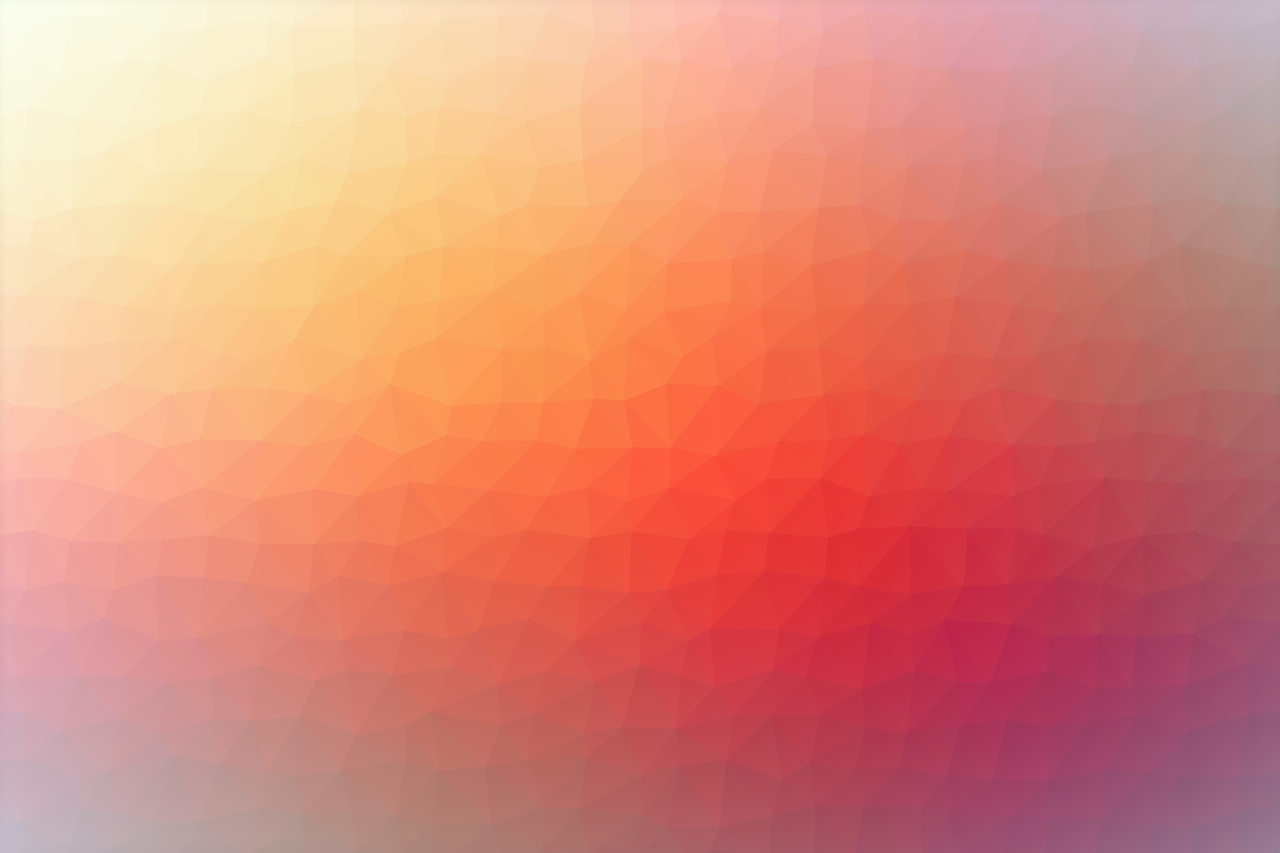
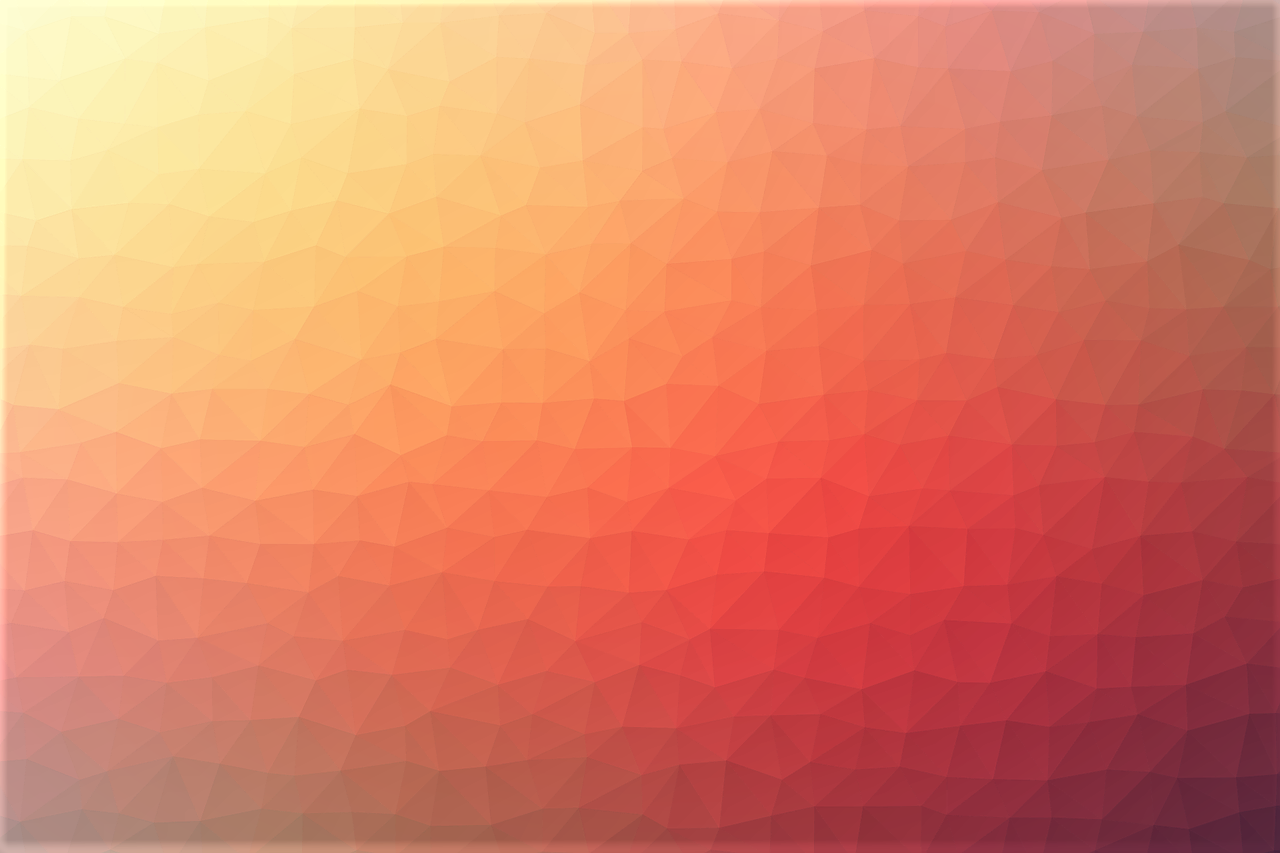
melhorias aluno

diff --git a/public/view/aluno/quiz.html b/public/view/aluno/quiz.html
@@ -1,10 +1,10 @@
 <header ng-include="'view/nav.html'"></header>
 <section class="container" style="width: 1400px">
-    <div class="jumbotron row" ng-show="!viewResultado">
+    <div class="jumbotron row fundoTransp-div" style="border-radius: 50px;" ng-show="!viewResultado">
         <div class="col-sm-12 col-md-10">
             <div class="row">
-            <div class="col-md-2 colorDefault" style="padding: 0px">
-                <h2>Progresso</h2>
+            <div class="col-md-2 colorDefault" style="padding: 0px; margin-left: 10px; margin-top: 7px">
+                <h3 style="color: black">Progresso</h3>
             </div>
             <div class="col-md-9">
                 <div class="progress progress-striped" style="margin-top: 35px; height: 15px">
@@ -15,23 +15,23 @@
 
             <div class="row col-md-12">
                 <div class="colorDefault">
-                    <h3 style="margin-bottom: 10px">Questão {{nQuestao}}</h3>
+                    <h3 style="margin-bottom: 10px; color: black">Questão {{nQuestao}}</h3>
                 </div>
                 <div >
                     <div class="panel colorDefault" style="border:1px solid #5bc03a">
-                        <h3 style="padding-left: 20px; padding-bottom: 5px;" ng-bind="estruturaQuiz.question"></h3> 
+                        <h3 style="padding-left: 20px; padding-bottom: 5px;color: black" ng-bind="estruturaQuiz.question"></h3> 
                     </div>
                     <div class="list-group">
-                    <a href="" ng-click="clickResposta(1)" class="list-group-item " style="margin-bottom: 10px" ng-style="{ background: resp1 ? '#5bc03a' : ''}">
+                    <a href="" ng-click="clickResposta(1)" class="list-group-item " style="margin-bottom: 10px;color: black" ng-style="{ background: resp1 ? '#5bc03a' : ''}">
                         <h4 class="list-group-item-heading" ng-bind="estruturaQuiz.option1"></h4>
                     </a>
-                    <a href="" ng-click="clickResposta(2)" class="list-group-item" style="margin-bottom: 10px" ng-style="{ background: resp2 ? '#5bc03a' : ''}">
+                    <a href="" ng-click="clickResposta(2)" class="list-group-item" style="margin-bottom: 10px;color: black" ng-style="{ background: resp2 ? '#5bc03a' : ''}">
                         <h4 class="list-group-item-heading" ng-bind="estruturaQuiz.option2"></h4>
                     </a>
-                    <a href="" ng-click="clickResposta(3)" class="list-group-item" style="margin-bottom: 10px" ng-style="{ background: resp3 ? '#5bc03a' : ''}">
+                    <a href="" ng-click="clickResposta(3)" class="list-group-item" style="margin-bottom: 10px;color: black" ng-style="{ background: resp3 ? '#5bc03a' : ''}">
                         <h4 class="list-group-item-heading" ng-bind="estruturaQuiz.option3"></h4>
                     </a>
-                    <a href="" ng-click="clickResposta(4)" class="list-group-item" style="margin-bottom: 10px" ng-style="{ background: resp4 ? '#5bc03a' : ''}">
+                    <a href="" ng-click="clickResposta(4)" class="list-group-item" style="margin-bottom: 10px;color: black" ng-style="{ background: resp4 ? '#5bc03a' : ''}">
                         <h4 class="list-group-item-heading" ng-bind="estruturaQuiz.option4"></h4>
                     </a>
                     </div>
@@ -51,10 +51,10 @@
             </div>
         </div>
     </div>
-    <div class="jumbotron row" ng-show="viewResultado">
+    <div class="jumbotron row fundoTransp-div" style="border-radius: 50px;" ng-show="viewResultado">
         <div class="text-center" style="margin-bottom: 500px; z-index: 1000;">
             <div class="text-center" id="chart_div" style="position: absolute;top: 100px;left: 26%;"></div>
-            <h2 class="colorDefault">Parabéns você concluiu o Quiz!!! Veja seus acertos e erros abaixo!!!</h2>
+            <h2 class="colorDefault">Ótimo trabalho. Você finalizou as perguntas, agora confira seu resultado!</h2>
             
         </div>
 
@@ -81,3 +81,17 @@
         </div>
     
 </section>
+
+<style>
+        
+    body { 
+        background-image: url(../img/fundo_aluno1.png);
+        background-position: center center;
+        background-repeat:  no-repeat;
+        background-attachment: fixed;
+        background-size:  cover;
+        background-color: #999;
+
+
+    }
+</style>

diff --git a/public/view/aluno/aluno.html b/public/view/aluno/aluno.html
@@ -1,8 +1,8 @@
 <header ng-include="'view/nav.html'"></header>
 <section class="container">
-    <div class="jumbotron">
+    <div class="jumbotron fundoTransp-div" style="border-radius: 50px; margin-top: 30px">
 
-        <h2 class="text-center colorDefault" >
+        <h2 class="text-center colorDefault" style="color: black">
             Aluno, assista os vídeos selecionados pelo seu professor para depois começar o Quiz!
         </h2>
         {{vm.aula}}
@@ -43,3 +43,17 @@
     
     </div>
 </section>
+
+<style>
+        
+    body { 
+        background-image: url(../img/fundo_aluno1.png) ;
+        background-position: center center;
+        background-repeat:  no-repeat;
+        background-attachment: fixed;
+        background-size:  cover;
+        background-color: #999;
+
+
+    }
+</style>

diff --git a/public/view/professor/criarAula.html b/public/view/professor/criarAula.html
@@ -233,4 +233,7 @@ body {
 
 
 }
+</style>
+
+
 
